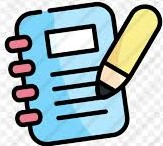
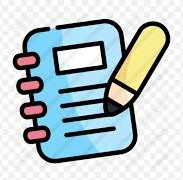
custom background

diff --git a/src/components/Header/Header.jsx b/src/components/Header/Header.jsx
@@ -1,18 +1,41 @@
-import React from 'react';
+import React,{ useState } from 'react';
+import $ from "jquery";
 
 import './Header.css';
 import Logo from "../../images/notes.jpg";
 
 function Header(){
 
+	const [url, setURL] = useState(() => localStorage.getItem('file'));
+
+	const handleURL = () => {
+		localStorage.setItem('file',url);	
+		$("#root").css("background-image", "url(" + url + ")");
+	}
+
 	return (
 		<nav className="navbar navbar-light header mb-4 p-1">
-			<h1 className="heading font-weight-bold">
-				NOTES
-			</h1>
-			<a className="navbar-brand ml-3" href="https://notekeeper-puneet.netlify.app">
-				<img src={Logo} alt="App Logo(Note)" className="logo" />
+			<a className="navbar-brand left ml-4" href="https://notekeeper-puneet.netlify.app">
+				<img className="logo" src={Logo} alt="App Logo(Note)"  />
+				<h1 className="heading font-weight-bold mb-0 pl-3"> NOTES </h1>
 			</a>
+			<div className="d-flex pr-1 pr-sm-3">
+				<i className="material-icons fa-2x wallpaper" data-toggle="modal" data-target="#background" > wallpaper </i>
+			</div>
+			<div className="modal fade" id="background" role="dialog" aria-labelledby="background" aria-hidden="true">
+				<div className="modal-dialog  modal-dialog-centered" role="document">
+					<div className="modal-content">
+						<div className="modal-body">
+							<h5 className="font-weight-bold mb-3"> Provide Custom Url for Background</h5>
+							<input type="text" name="url" className="form-control mb-1" placeholder="Background URL" value={url} onChange={(event) => setURL(event.target.value)} autoComplete="off" spellCheck="false" />
+						</div>
+						<div className="modal-footer">
+							<button type="button" className="btn btn-danger" onClick={() => setURL('')}>CLEAR</button>
+							<button type="button" className="btn btn-success" data-dismiss="modal" onClick={handleURL}>APPLY</button>
+						</div>
+					</div>
+				</div>
+			</div>
 		</nav>
 	);
 }

diff --git a/src/components/AddNote/AddNote.jsx b/src/components/AddNote/AddNote.jsx
@@ -38,13 +38,13 @@ const AddNote = () => {
 			<div className="addbox">
 				<input type="text" name="title" className="form-control mb-1" placeholder="Title" value={note.title} onChange={handleChange} autoComplete="off" spellCheck="false" />
 				<input type="text" name="content" className="form-control" placeholder="Take a note..." value={note.content} onChange={handleChange} autoComplete="off" spellCheck="false" />
-				<div className="d-flex justify-content-around" >
-					<button className="btn btn-success mt-3" type="submit" onClick={handleSubmit} > 
+				<div className="d-flex justify-content-around mt-3" >
+					<button className="btn btn-success" type="submit" onClick={handleSubmit} > 
 						<i className="fa fa-plus" /> &nbsp;
 						ADD
 					</button>
-					<button className="btn btn-danger mt-3 d-flex" type="submit" onClick={handleClear} > 
-						<i className="material-icons"> clear_all </i>
+					<button className="btn btn-danger d-flex" type="submit" onClick={handleClear} > 
+						<i className="material-icons"> clear_all </i> &nbsp;
 						CLEAR
 					</button>
 				</div>

diff --git a/src/components/Main/Note/Note.jsx b/src/components/Main/Note/Note.jsx
@@ -15,7 +15,7 @@ const Note = ({ note, setEditNote }) => {
 	}
 
 	return (
-		<div className="card mb-4 mr-3" style={{background: note.color}}>
+		<div className="card mb-0 mt-4 mr-3" style={{background: note.color}}>
 			<div className="card-body">
 				<h5 className="card-title font-weight-bold mb-0 title">#{note._id} {note.title}</h5>
 				<p className="card-subtitle mb-2 text-muted font-weight-light font-italic text-right highlight">{moment(note.createdAt).fromNow()}</p>
@@ -25,7 +25,7 @@ const Note = ({ note, setEditNote }) => {
 				<p className="card-text content">{note.content}</p>
 				<div className="functions mt-3">
 					<i className="fa fa-edit text-success" data-toggle="modal" data-target="#edit" onClick={editNote}/>
-					<i className="material-icons text-danger"  onClick={() => dispatch(deleteNote(note._id))}> delete </i>
+					<i className="material-icons text-danger" onClick={() => dispatch(deleteNote(note._id))}> delete </i>
 				</div>
 			</div>
 		</div>

diff --git a/src/App.jsx b/src/App.jsx
@@ -1,5 +1,6 @@
 import React,{ useEffect, useState } from 'react';
 import { useDispatch } from "react-redux";
+import $ from "jquery";
 
 import { getNotes } from "./actions/actions.js";
 import Header from "./components/Header/Header.jsx";
@@ -16,6 +17,12 @@ function App(){
 
 	useEffect(()=>{
 		dispatch(getNotes());
+		const x = localStorage.getItem('file');
+		if(!x){
+			localStorage.setItem('file','');
+		}else{
+			$("#root").css("background-image", "url(" + x + ")");
+		}
 	},[dispatch]);
 
 	return (

diff --git a/src/components/Header/Header.css b/src/components/Header/Header.css
@@ -1,14 +1,27 @@
 .header {
   background-color: rgb(251, 237, 156);
   border-radius: 25px;
+  justify-content: space-between;
+}
+
+.left{
+  display: flex;
+  flex-direction: row;
   justify-content: center;
+}
+
+.logo {
+  height: 60px;
+  border-radius: 40px;
 }
 
 .heading {
   color: rgba(0,183,255, 1);
   text-decoration: none;
+  display: flex;
+  align-items: center;
 }
 
-.logo {
-  height: 60px;
+.wallpaper:hover {
+  color: red;
 }

diff --git a/public/index.html b/public/index.html
@@ -12,8 +12,8 @@
     <link href="https://fonts.googleapis.com/icon?family=Material+Icons" rel="stylesheet">
 
     <link rel="stylesheet" href="styles.css" /> 
-    <link rel="icon" type="image/png" href="./images/pen-solid.svg">
-    <title>Keeper-App</title>
+    <link rel="icon" type="image/png" href="./images/sticky_note.svg">
+    <title>Note Keeper</title>
   </head>
   <body>
     <div id="root"></div>

diff --git a/public/styles.css b/public/styles.css
@@ -3,10 +3,14 @@
     margin: 0;
 }
 
-body {
+#root {
     font-family: 'Lato';
-    background: #dcdad7;
     min-height: 100vh;
+    padding-top: 15px;
+    padding-bottom: 15px;
+    background: #dcdad7;
+    background-attachment: fixed;
+	background-size: cover;
 }
 
 /* Hide scrollbar for Chrome, Safari and Opera */

diff --git a/src/components/Main/Notes.jsx b/src/components/Main/Notes.jsx
@@ -8,7 +8,7 @@ const Notes = ({setEditNote}) => {
     const notes = useSelector((state) => state);
 
   	return(
-		<div className="card-columns m-3">
+		<div className="card-columns mt-3 mx-3">
 			{
 				notes.map((note) => (
 					<Note note={note} key={note._id} setEditNote={setEditNote} />

diff --git a/src/components/Modal/Modal.jsx b/src/components/Modal/Modal.jsx
@@ -20,8 +20,7 @@ const Modal = ({editNote}) => {
 		});
 	}
 
-    const handleClose = (event) => {
-        event.preventDefault();
+    const handleClose = () => {
         dispatch(update(note._id, note));
     }
 

diff --git a/src/components/Modal/Modal.css b/src/components/Modal/Modal.css
@@ -10,3 +10,7 @@
     font-size: 2rem;
     border: none;
 }
+
+.modal-footer{
+    border-top: none;
+}
